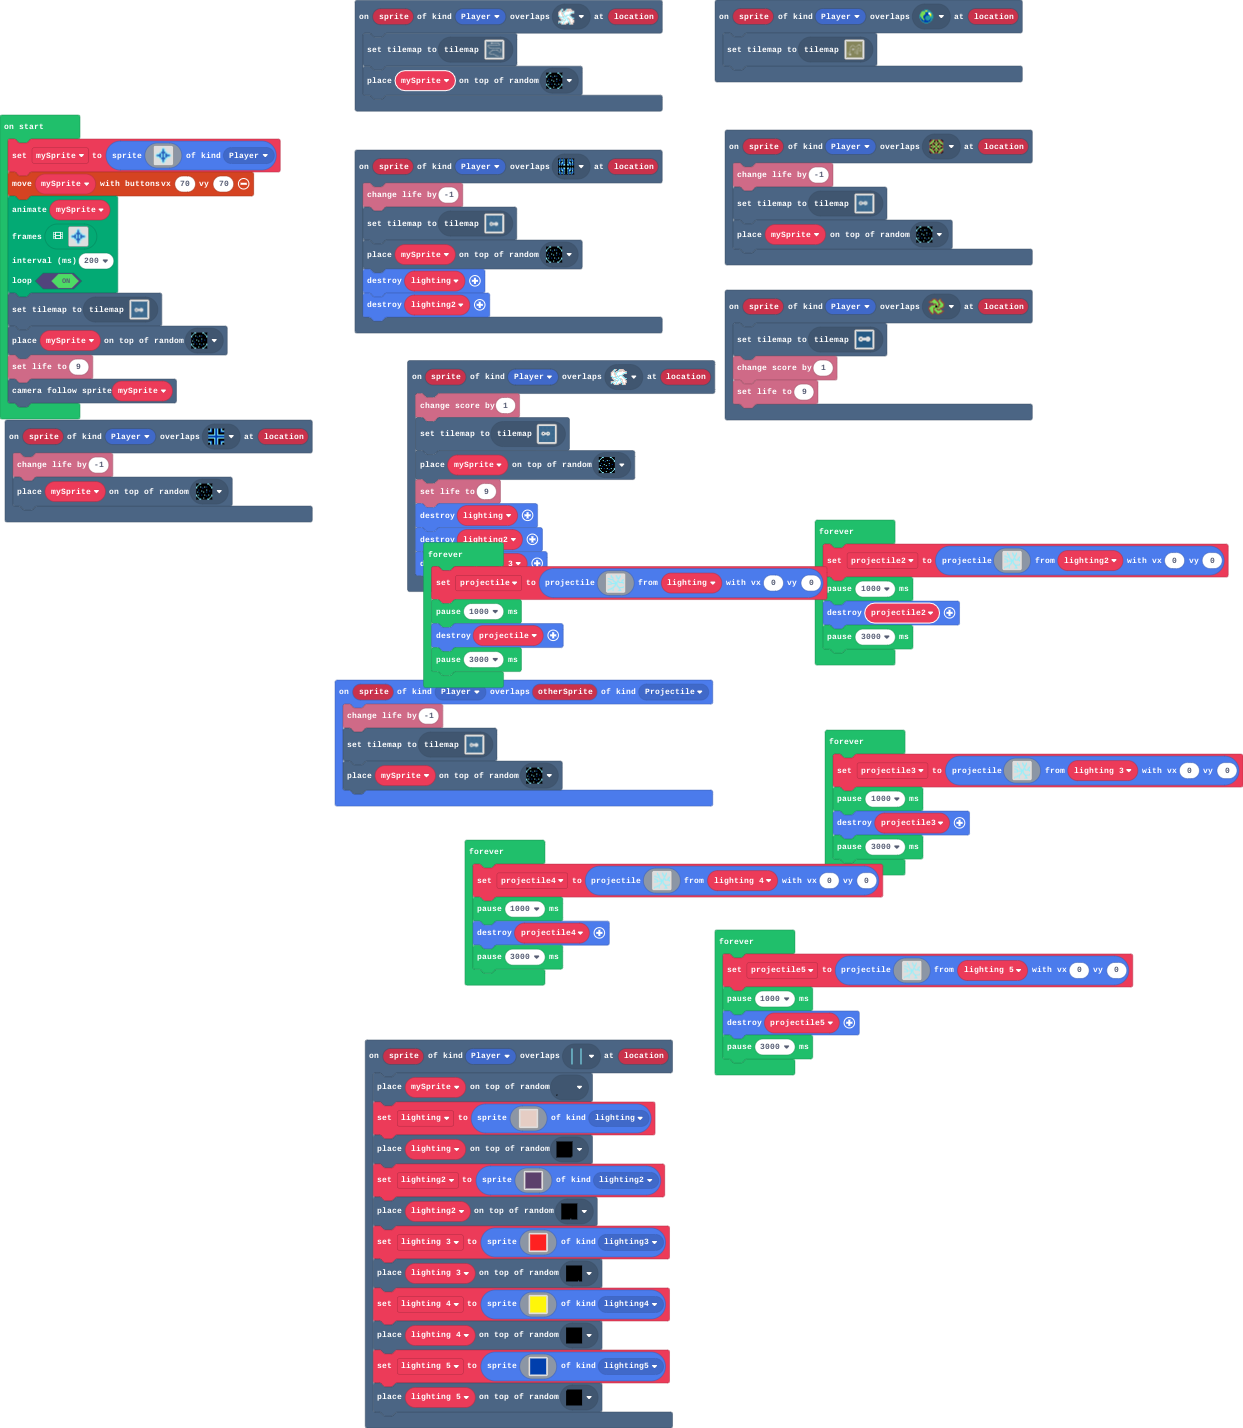
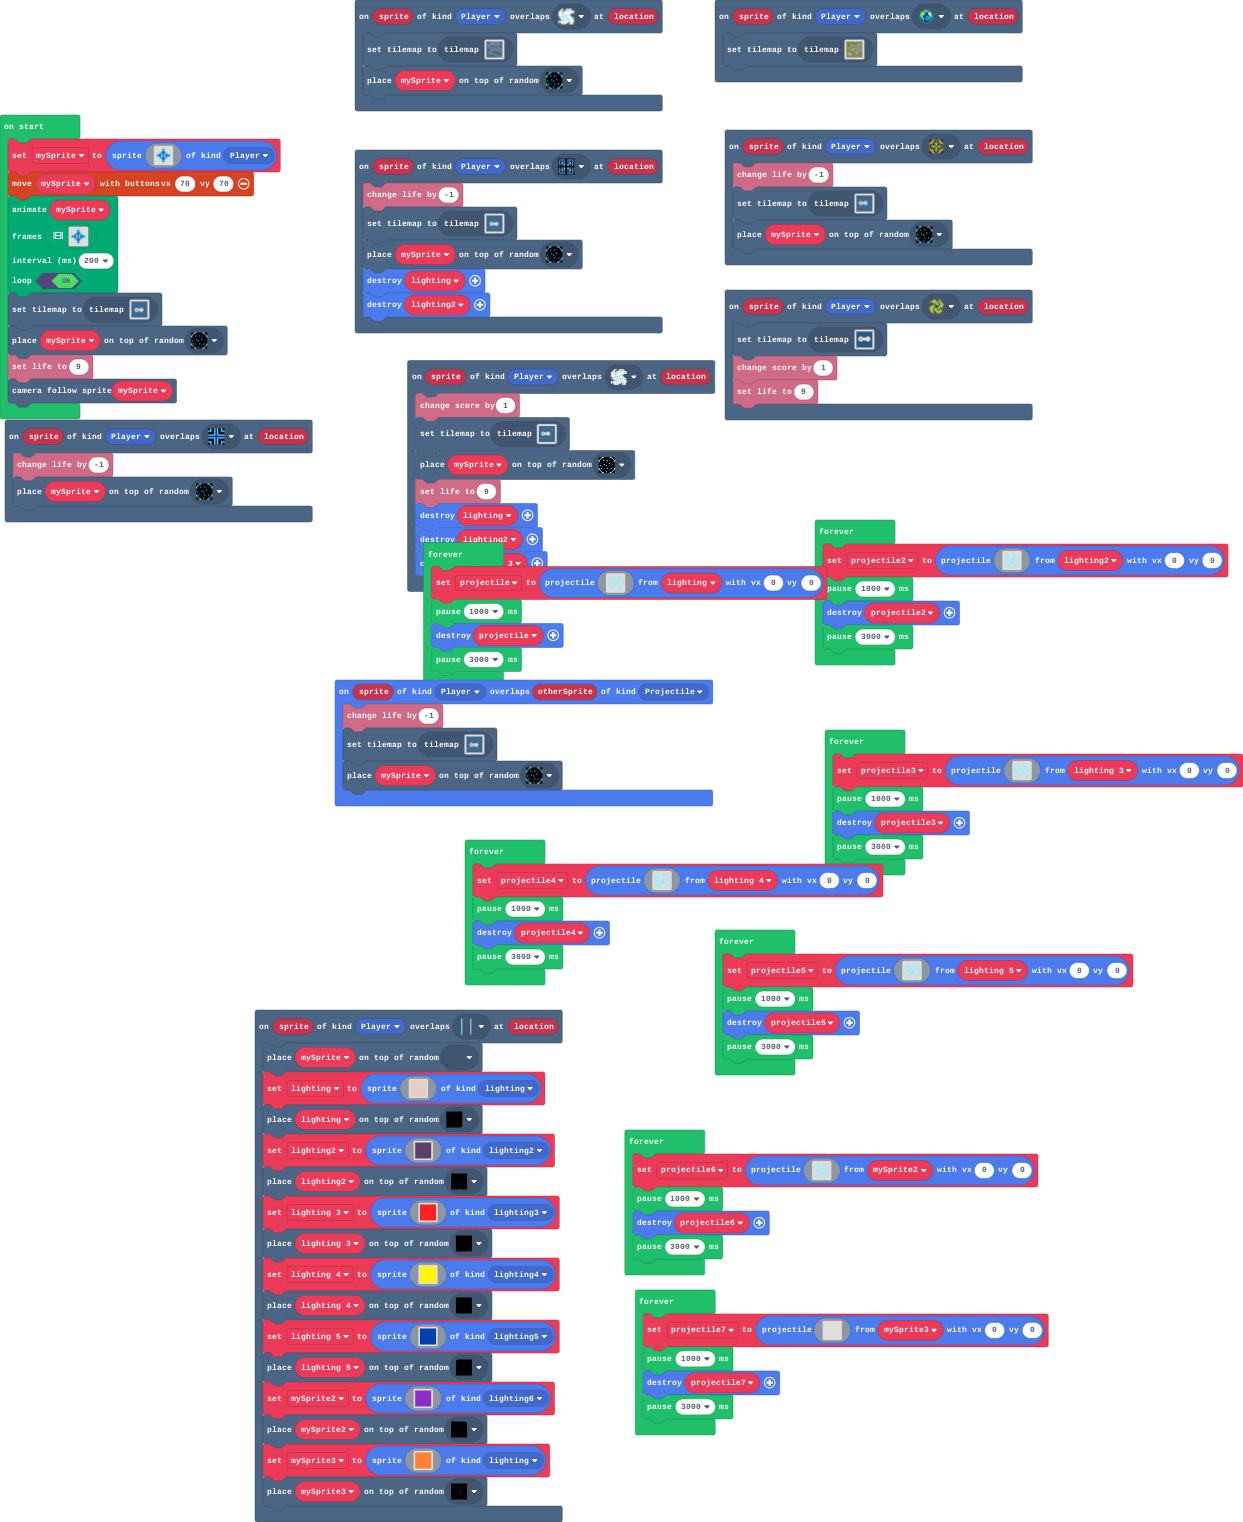
Update main.blocks, main.ts, tilemap.g.jres, tilemap.g.ts

diff --git a/tilemap.g.ts b/tilemap.g.ts
@@ -30,6 +30,10 @@ namespace myTiles {
     export const tile13 = image.ofBuffer(hex``);
     //% fixedInstance jres blockIdentity=images._tile
     export const tile14 = image.ofBuffer(hex``);
+    //% fixedInstance jres blockIdentity=images._tile
+    export const tile15 = image.ofBuffer(hex``);
+    //% fixedInstance jres blockIdentity=images._tile
+    export const tile16 = image.ofBuffer(hex``);
 
     helpers._registerFactory("tilemap", function(name: string) {
         switch(helpers.stringTrim(name)) {
@@ -218,7 +222,7 @@ namespace myTiles {
 . . . . . . . . . . . . . . . . 
 `, [myTiles.transparency16,myTiles.tile1,myTiles.tile2], TileScale.Sixteen);
             case "level2":
[2 lines of base64/hex data omitted]
 ..................................................
 ..................................................
 ..................................................
@@ -269,7 +273,7 @@ namespace myTiles {
 ..................................................
 ..................................................
 ..................................................
-`, [myTiles.transparency16,myTiles.tile2,myTiles.tile3,myTiles.tile5,myTiles.tile6,myTiles.tile7,myTiles.tile8,myTiles.tile9,myTiles.tile12,myTiles.tile13,myTiles.tile14], TileScale.Sixteen);
+`, [myTiles.transparency16,myTiles.tile2,myTiles.tile3,myTiles.tile5,myTiles.tile6,myTiles.tile7,myTiles.tile8,myTiles.tile9,myTiles.tile12,myTiles.tile13,myTiles.tile14,myTiles.tile15,myTiles.tile16], TileScale.Sixteen);
         }
         return null;
     })
@@ -305,6 +309,10 @@ namespace myTiles {
             case "tile13":return tile13;
             case "myTile12":
             case "tile14":return tile14;
+            case "myTile13":
+            case "tile15":return tile15;
+            case "myTile14":
+            case "tile16":return tile16;
         }
         return null;
     })

diff --git a/main.ts b/main.ts
@@ -4,6 +4,7 @@ namespace SpriteKind {
     export const lighting3 = SpriteKind.create()
     export const lighting4 = SpriteKind.create()
     export const lighting5 = SpriteKind.create()
+    export const lighting6 = SpriteKind.create()
 }
 scene.onOverlapTile(SpriteKind.Player, assets.tile`myTile1`, function (sprite, location) {
     info.changeLifeBy(-1)
@@ -69,12 +70,24 @@ scene.onOverlapTile(SpriteKind.Player, assets.tile`myTile5`, function (sprite, l
         8 
         `, SpriteKind.lighting5)
     tiles.placeOnRandomTile(lighting_5, assets.tile`myTile12`)
+    mySprite2 = sprites.create(img`
+        a 
+        `, SpriteKind.lighting6)
+    tiles.placeOnRandomTile(mySprite2, assets.tile`myTile13`)
+    mySprite3 = sprites.create(img`
+        4 
+        `, SpriteKind.lighting)
+    tiles.placeOnRandomTile(mySprite3, assets.tile`myTile14`)
 })
+let projectile7: Sprite = null
+let projectile6: Sprite = null
 let projectile5: Sprite = null
 let projectile4: Sprite = null
 let projectile3: Sprite = null
 let projectile: Sprite = null
 let projectile2: Sprite = null
+let mySprite3: Sprite = null
+let mySprite2: Sprite = null
 let lighting_5: Sprite = null
 let lighting_4: Sprite = null
 let lighting_3: Sprite = null
@@ -286,5 +299,55 @@ forever(function () {
         `, lighting_5, 0, 0)
     pause(1000)
     sprites.destroy(projectile5)
+    pause(3000)
+})
+forever(function () {
+    projectile6 = sprites.createProjectileFromSprite(img`
+        ....9.....9....9....
+        ....9.....99...9....
+        ....99.....9..99....
+        .....99....99.9.....
+        999...9.....999.....
+        ..99999......9.....9
+        ......99....99....99
+        99.....9....9....99.
+        .999...999.9999..9..
+        ...99....999..999999
+        ....99999999.......9
+        99999....999........
+        .........9.9........
+        ........99.99.......
+        .......99...99.....9
+        ......99.....9999999
+        ....999.......9.....
+        ..999.9.......99....
+        999...9........9....
+        9.....9......9999...
+        `, mySprite2, 0, 0)
+    pause(1000)
+    sprites.destroy(projectile6)
+    pause(3000)
+})
+forever(function () {
+    projectile7 = sprites.createProjectileFromSprite(img`
+        . . . . . . . . . . . . . . . . 
+        . . . . . . . . . . . . . . . . 
+        . . . . . . . . . . . . . . . . 
+        . . . . . . . . . . . . . . . . 
+        . . . . . . . . . . . . . . . . 
+        . . . . . . . . . . . . . . . . 
+        . . . . . . . . . . . . . . . . 
+        . . . . . . . . . . . . . . . . 
+        . . . . . . . . . . . . . . . . 
+        . . . . . . . . . . . . . . . . 
+        . . . . . . . . . . . . . . . . 
+        . . . . . . . . . . . . . . . . 
+        . . . . . . . . . . . . . . . . 
+        . . . . . . . . . . . . . . . . 
+        . . . . . . . . . . . . . . . . 
+        . . . . . . . . . . . . . . . . 
+        `, mySprite3, 0, 0)
+    pause(1000)
+    sprites.destroy(projectile7)
     pause(3000)
 })
